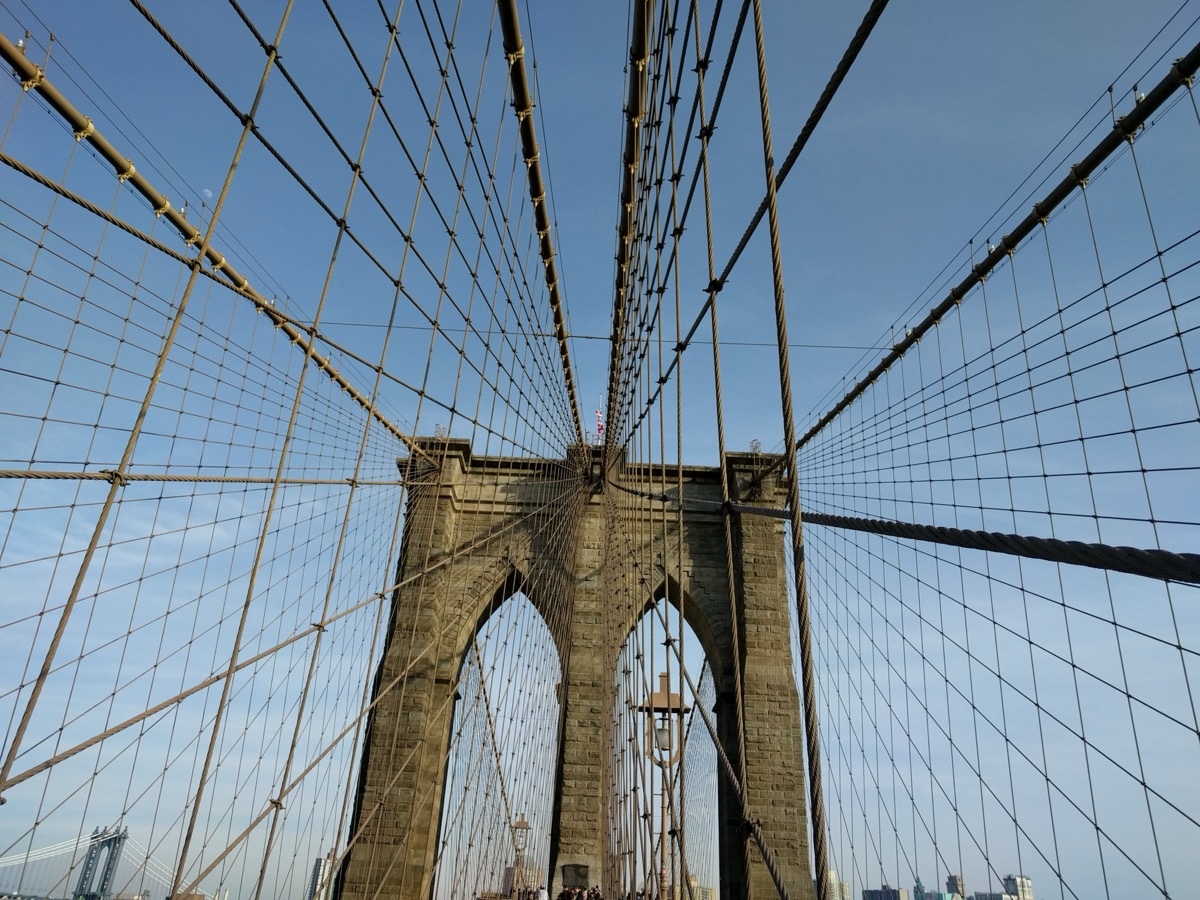
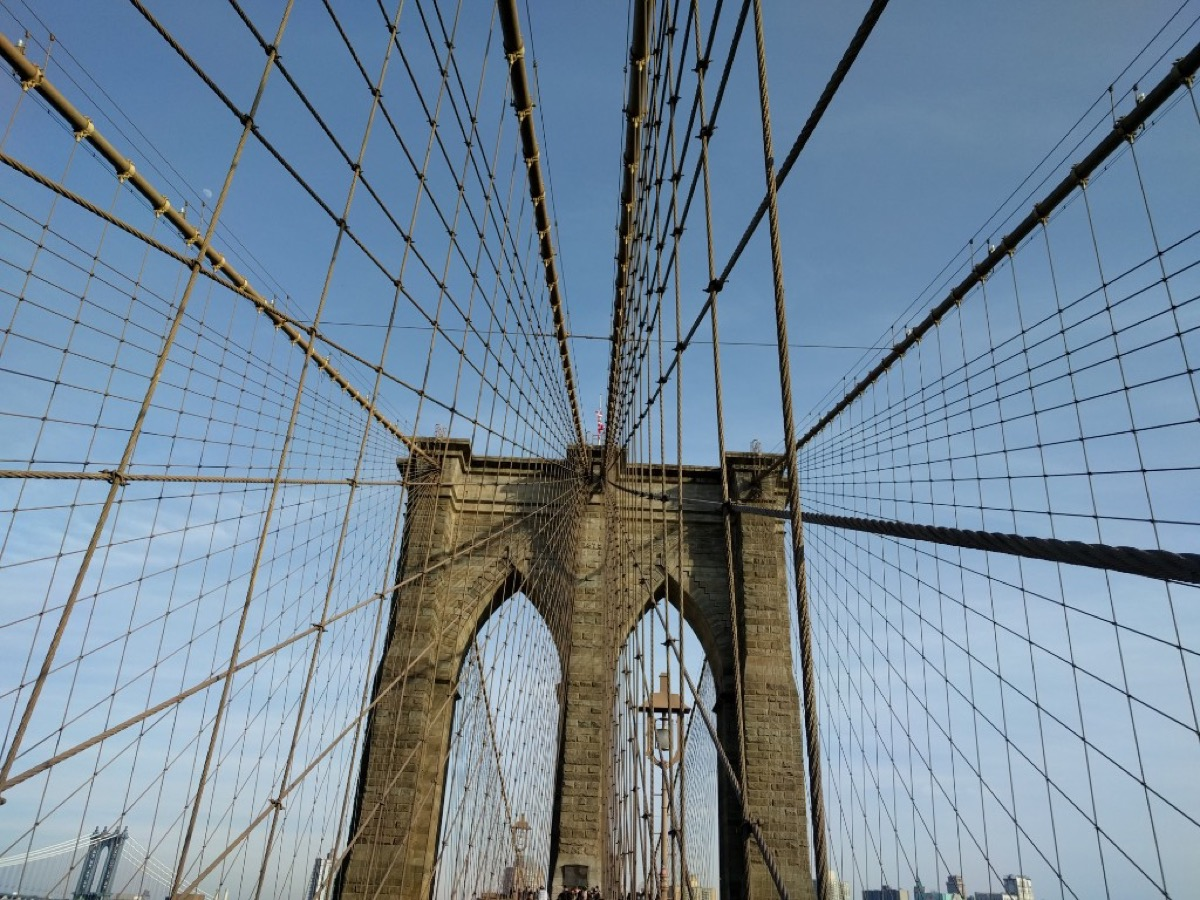
Fix Brooklyn Bridge photo: update to NY 2017, correct tags and keywords
Made-with: Cursor

diff --git a/photography.html b/photography.html
@@ -375,7 +375,7 @@
       { src: 'photos/IMG_0795~2.JPG', title: 'CA, 2014', tags: ['cars'], keywords: 'car parking lot classic event', tone: 'warm' },
       { src: 'photos/IMG_20160625_121113.jpg', title: 'CA, 2016', tags: ['cars','street'], keywords: 'car summer street cruise california', tone: 'golden' },
       { src: 'photos/PXL_20260405_155502673~2.jpg', title: 'CA, 2026', tags: ['cars'], keywords: 'ferrari f40 twin red exotic sports car italian iconic', tone: 'warm' },
-      { src: 'photos/IMG_20170405_173626.jpg', title: 'CA, 2017', tags: ['cars'], keywords: 'car show spring gathering lot', tone: 'green' },
+      { src: 'photos/IMG_20170405_173626.jpg', title: 'NY, 2017', tags: ['architecture','street'], keywords: 'brooklyn bridge new york cables tower suspension architecture landmark', tone: 'cool' },
       { src: 'photos/IMG_449196755031479-edited.jpeg', title: 'CA, 2015', tags: ['cars','tools'], keywords: 'car engine chrome steel detail motor', tone: 'cool' },
       { src: 'photos/MVIMG_20181103_143758-edited.jpg', title: 'CA, 2018', tags: ['cars','nature'], keywords: 'car autumn fall trees road landscape', tone: 'golden' },
       { src: 'photos/MVIMG_20190110_082109-edited.jpg', title: 'CA, 2019', tags: ['cars','street'], keywords: 'car morning urban street city light', tone: 'golden' },
